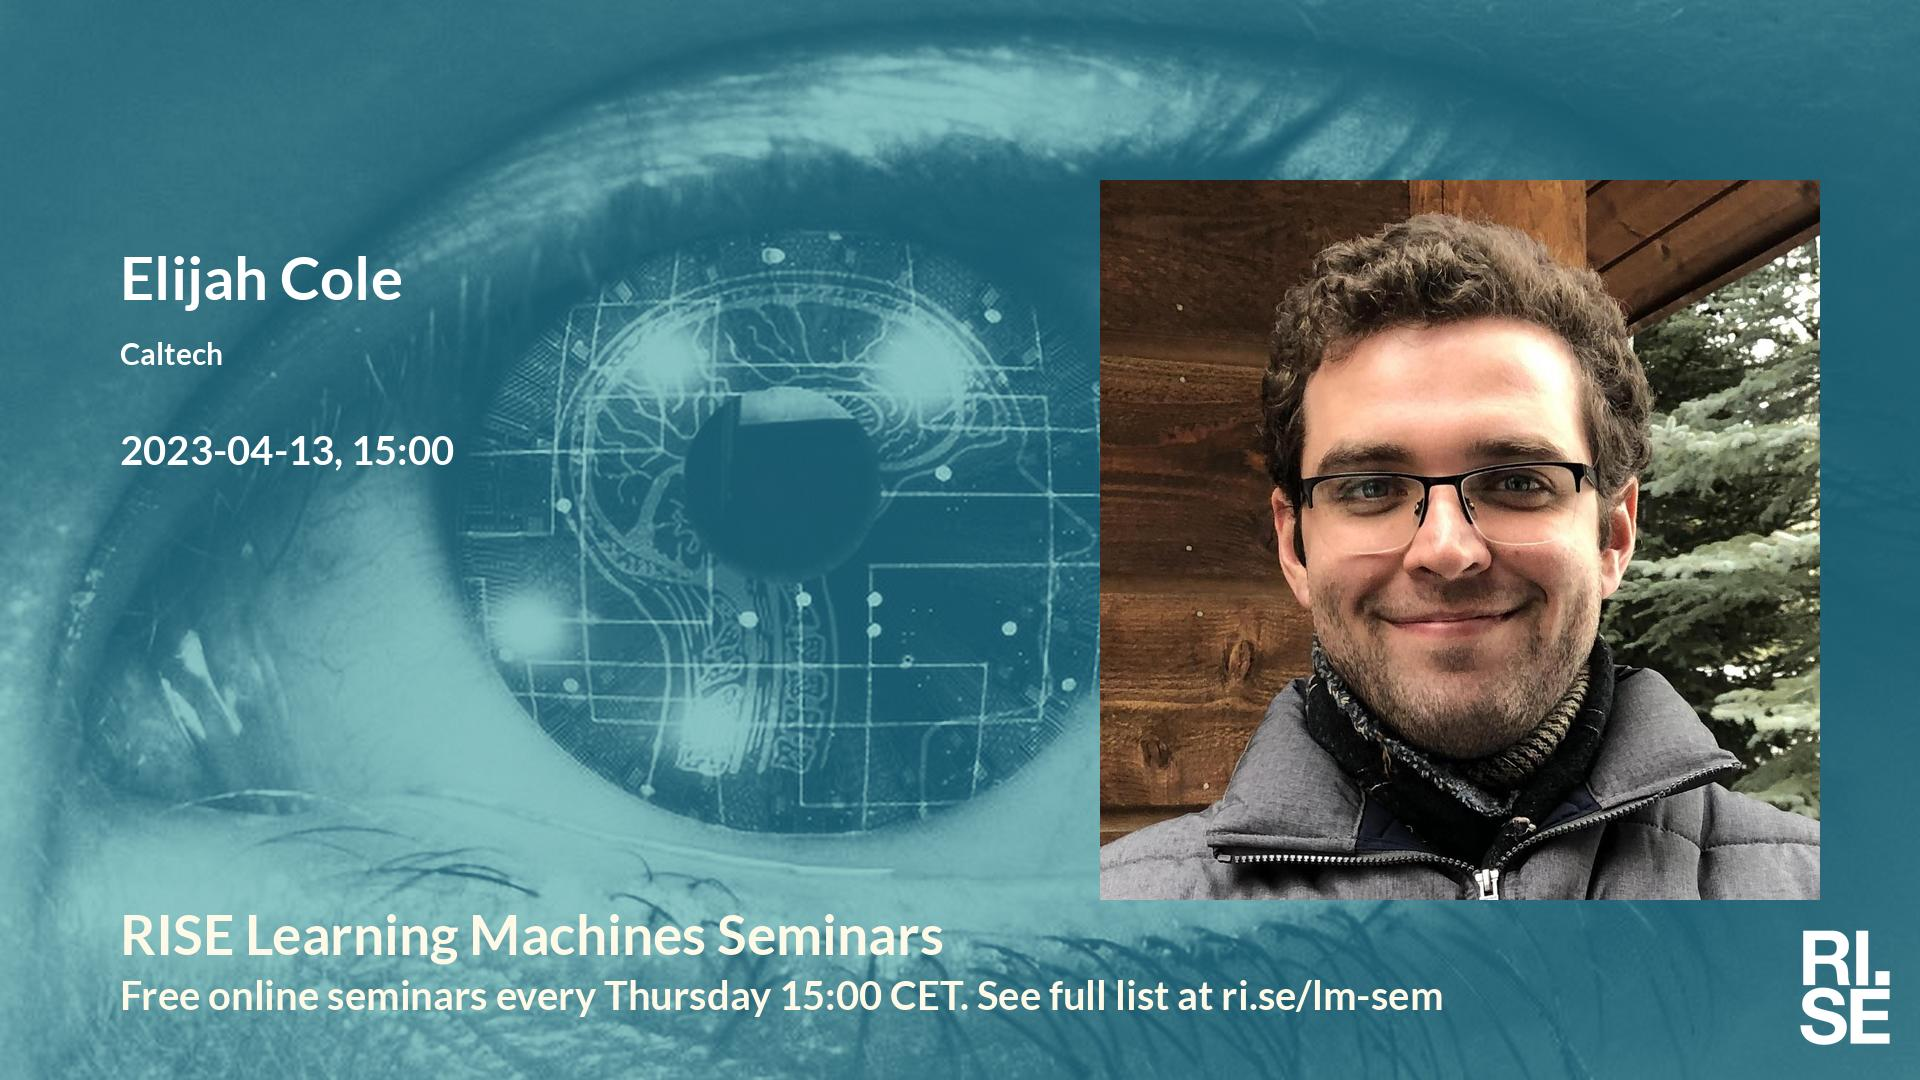
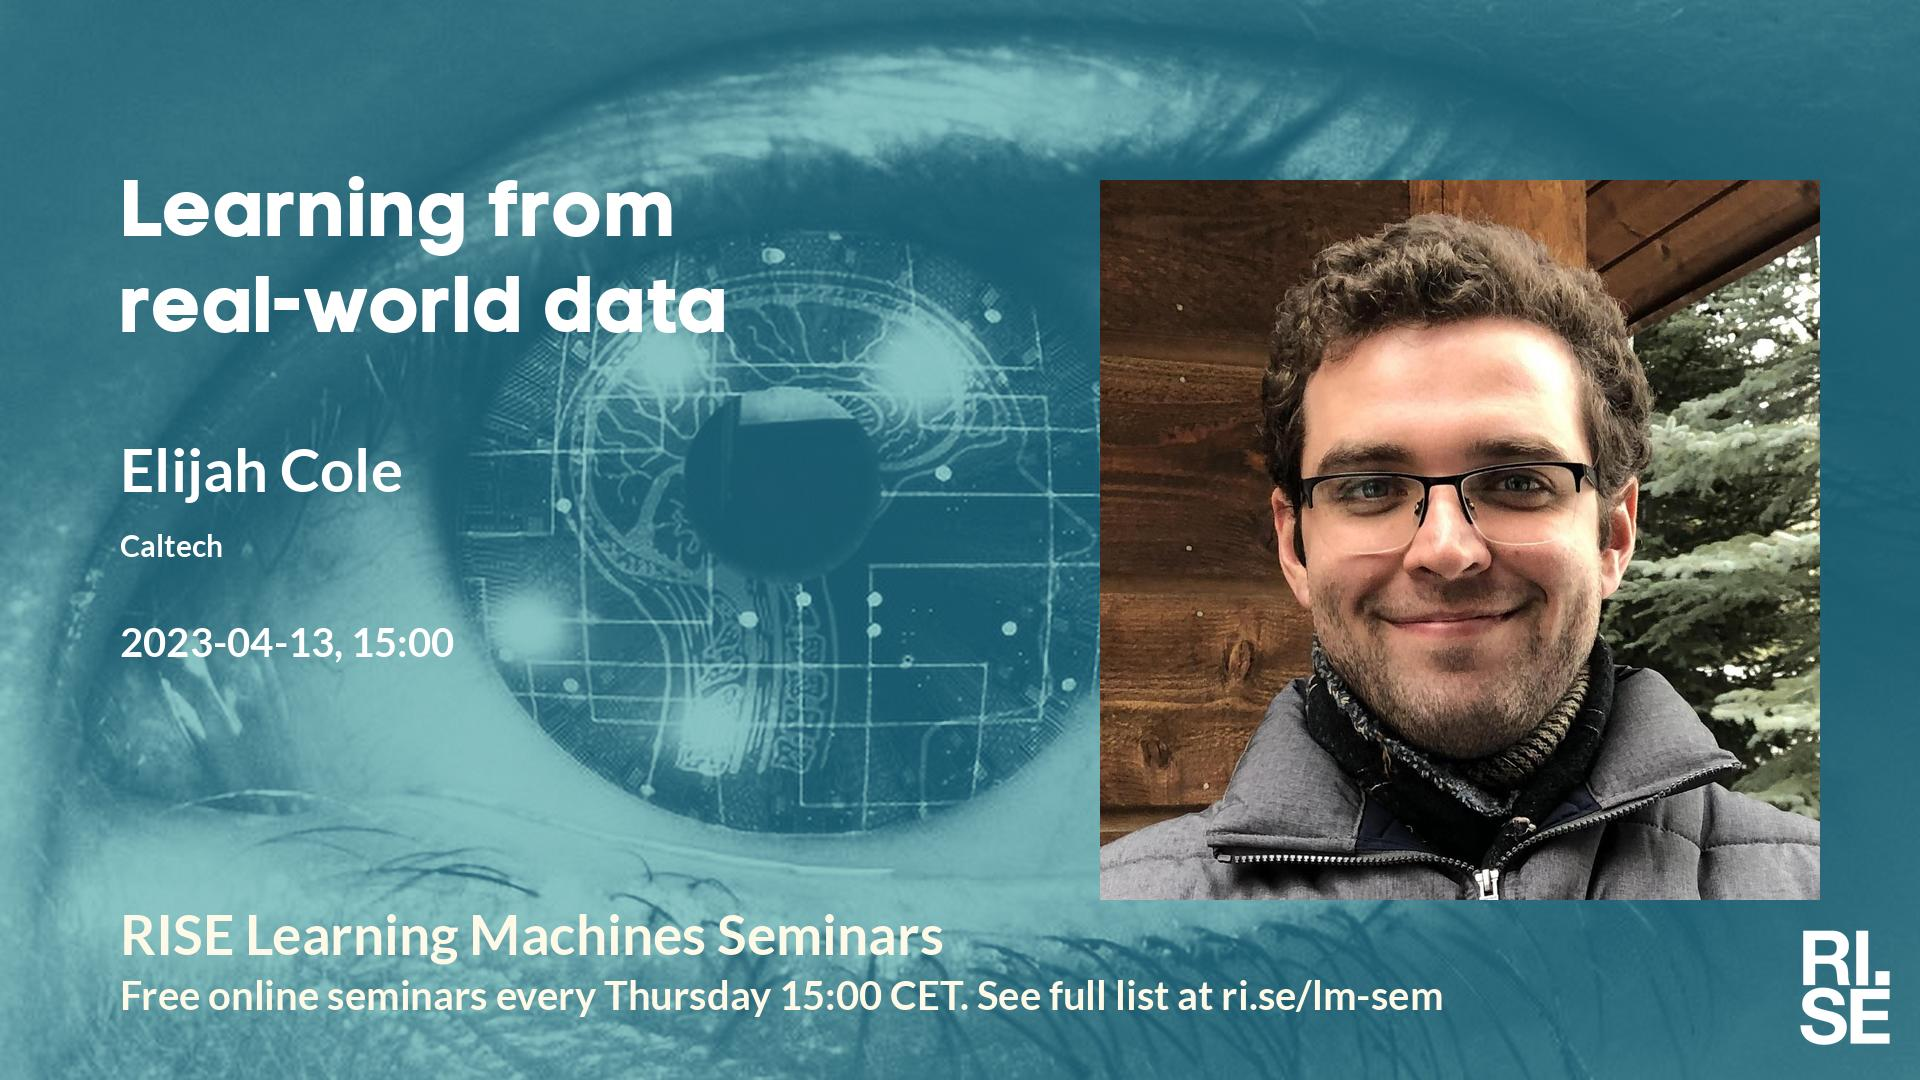
Updated plan on web site.

diff --git a/lm/index.md b/lm/index.md
@@ -5,16 +5,14 @@ metatags: "<meta name=\"robots\" content=\"noindex,nofollow\" />"
 <style type="text/css" scoped>
 td, th {border: 1px solid #ccc; padding: 0.6em;}
 table {border-collapse: collapse;}
-</style># Learning Machines Plan 2023-03-28
+</style># Learning Machines Plan 2023-04-05
 
 | date | speaker                                   | photo | shareable | meeting backdrop | youtube thumbnail | <a title="Speaker, Title, Abstract, Bio, Photo. Strikethrough means we don't have it yet.">comment</a>        |
 | ---- | ----------------------------------------- | ----- | ----- | ----- | ----- | -------------- |
-|  2023-03-09  |  [Shay Cohen, University of Edinburgh](2023-03-09.md)  |  [photo](photo-shay-cohen.jpg)  |  [social media ](social-media-shay-cohen.jpg)  |  [meeting backdrop ](meeting-backdrop-shay-cohen.jpg)  |  [youtube thumbnail ](youtube-thumbnail-shay-cohen.jpg)  |  STABP  |
-|  2023-03-16  |  [Stefanos Georganos, Karlstad University/KTH](2023-03-16.md)  |  [photo](photo-stefanos-georganos.jpg)  |  [social media ](social-media-stefanos-georganos.jpg)  |  [meeting backdrop ](meeting-backdrop-stefanos-georganos.jpg)  |  [youtube thumbnail ](youtube-thumbnail-stefanos-georganos.jpg)  |  STABP  |
 |  2023-03-23  |  [Gabrielle Flood, Lund University](2023-03-23.md)  |  [photo](photo-gabrielle-flood.jpg)  |  [social media ](social-media-gabrielle-flood.jpg)  |  [meeting backdrop ](meeting-backdrop-gabrielle-flood.jpg)  |  [youtube thumbnail ](youtube-thumbnail-gabrielle-flood.jpg)  |  STABP  |
 | <span style="color:red"> 2023-03-30 </span> | <span style="color:red"> *Up for grabs!!!* </span> | <span style="color:red">  </span> | <span style="color:red">  </span> | <span style="color:red">  </span> | <span style="color:red">  </span> | <span style="color:red"> CANCELLED </span> |
 | <span style="color:red"> 2023-04-06 </span> | <span style="color:red"> Påsklov/Skärtorsdag </span> | <span style="color:red">  </span> | <span style="color:red">  </span> | <span style="color:red">  </span> | <span style="color:red">  </span> | <span style="color:red"> CANCELLED </span> |
-|  2023-04-13  |  [Elijah Cole, Caltech](2023-04-13.md)  |  [photo](photo-elijah-cole.jpg)  |  [social media ](social-media-elijah-cole.jpg)  |  [meeting backdrop ](meeting-backdrop-elijah-cole.jpg)  |  [youtube thumbnail ](youtube-thumbnail-elijah-cole.jpg)  |  S~~TAB~~P  |
+|  2023-04-13  |  [Elijah Cole, Caltech](2023-04-13.md)  |  [photo](photo-elijah-cole.jpg)  |  [social media ](social-media-elijah-cole.jpg)  |  [meeting backdrop ](meeting-backdrop-elijah-cole.jpg)  |  [youtube thumbnail ](youtube-thumbnail-elijah-cole.jpg)  |  STABP  |
 |  2023-04-20  |  [Rico Sennrich, University of Zurich](2023-04-20.md)  |  [photo](photo-rico-sennrich.jpg)  |  [social media ](social-media-rico-sennrich.jpg)  |  [meeting backdrop ](meeting-backdrop-rico-sennrich.jpg)  |  [youtube thumbnail ](youtube-thumbnail-rico-sennrich.jpg)  |  STABP  |
 |  2023-04-27  |  [Pontus Stenetorp, University College London (UCL)](2023-04-27.md)  |    |  [social media ](social-media-pontus-stenetorp.jpg)  |  [meeting backdrop ](meeting-backdrop-pontus-stenetorp.jpg)  |  [youtube thumbnail ](youtube-thumbnail-pontus-stenetorp.jpg)  |  STAB~~P~~  |
 |  2023-05-04  |  [Ida Arvidsson, Lund University](2023-05-04.md)  |    |  [social media ](social-media-ida-arvidsson.jpg)  |  [meeting backdrop ](meeting-backdrop-ida-arvidsson.jpg)  |  [youtube thumbnail ](youtube-thumbnail-ida-arvidsson.jpg)  |  S~~TABP~~  |

diff --git a/lm/2023-04-13.md b/lm/2023-04-13.md
@@ -4,13 +4,15 @@ metatags: "<meta name=\"robots\" content=\"noindex,nofollow\" />"
 ---
 Welcome to this week's Learning Machines seminar.
 
-**Title:** 
+**Title:** Learning from real-world data
 
 **Speaker:** Elijah Cole, Caltech
 
-**Abstract:** 
+**Abstract:** Humans are collecting vast amounts of data to tackle societal challenges like preserving biodiversity, improving healthcare outcomes, and accelerating scientific discovery. However, in many domains we are collecting far too much data to analyze manually. To meet these challenges, we need machine learning algorithms that can automatically extract knowledge from this growing influx of raw data. Unfortunately, many machine learning algorithms are not compatible with the limited, noisy, and weak supervision often found in real-world settings.
 
-**About the speaker:** 
+This talk focuses on the task of learning from real-world data. I will present progress on the problem of learning from minimal labels in contexts like multi-label image classification and self-supervised representation learning. I will also describe how we can leverage small amounts of domain context to improve machine learning algorithms in a modular and flexible way, with examples from image classification and object localization. Finally, I will show how studying real-world data opens new frontiers in machine learning research and provides greater opportunities for impact in important application domains.
+
+**About the speaker:** Elijah Cole (https://elijahcole.me/) is a Ph.D. candidate in the Computing and Mathematical Sciences department at Caltech, advised by Pietro Perona. He received a B.S.E. from Duke University in 2017 with a double major in electrical engineering and mathematics. During his Ph.D. he completed internships at Google Research, Microsoft AI for Earth, and the Air Force Research Laboratory. His research focuses on deep learning and computer vision, with an emphasis on learning from limited, noisy, and weak supervision. He works with ecologists, physicians, and other domain experts to develop new benchmarks that test algorithms under realistic conditions and challenge traditional machine learning paradigms. Elijah’s work is funded by an NSF Graduate Research Fellowship and the Resnick Sustainability Institute.
 
 **Location:** This is an online seminar. Connect using Zoom.
 
